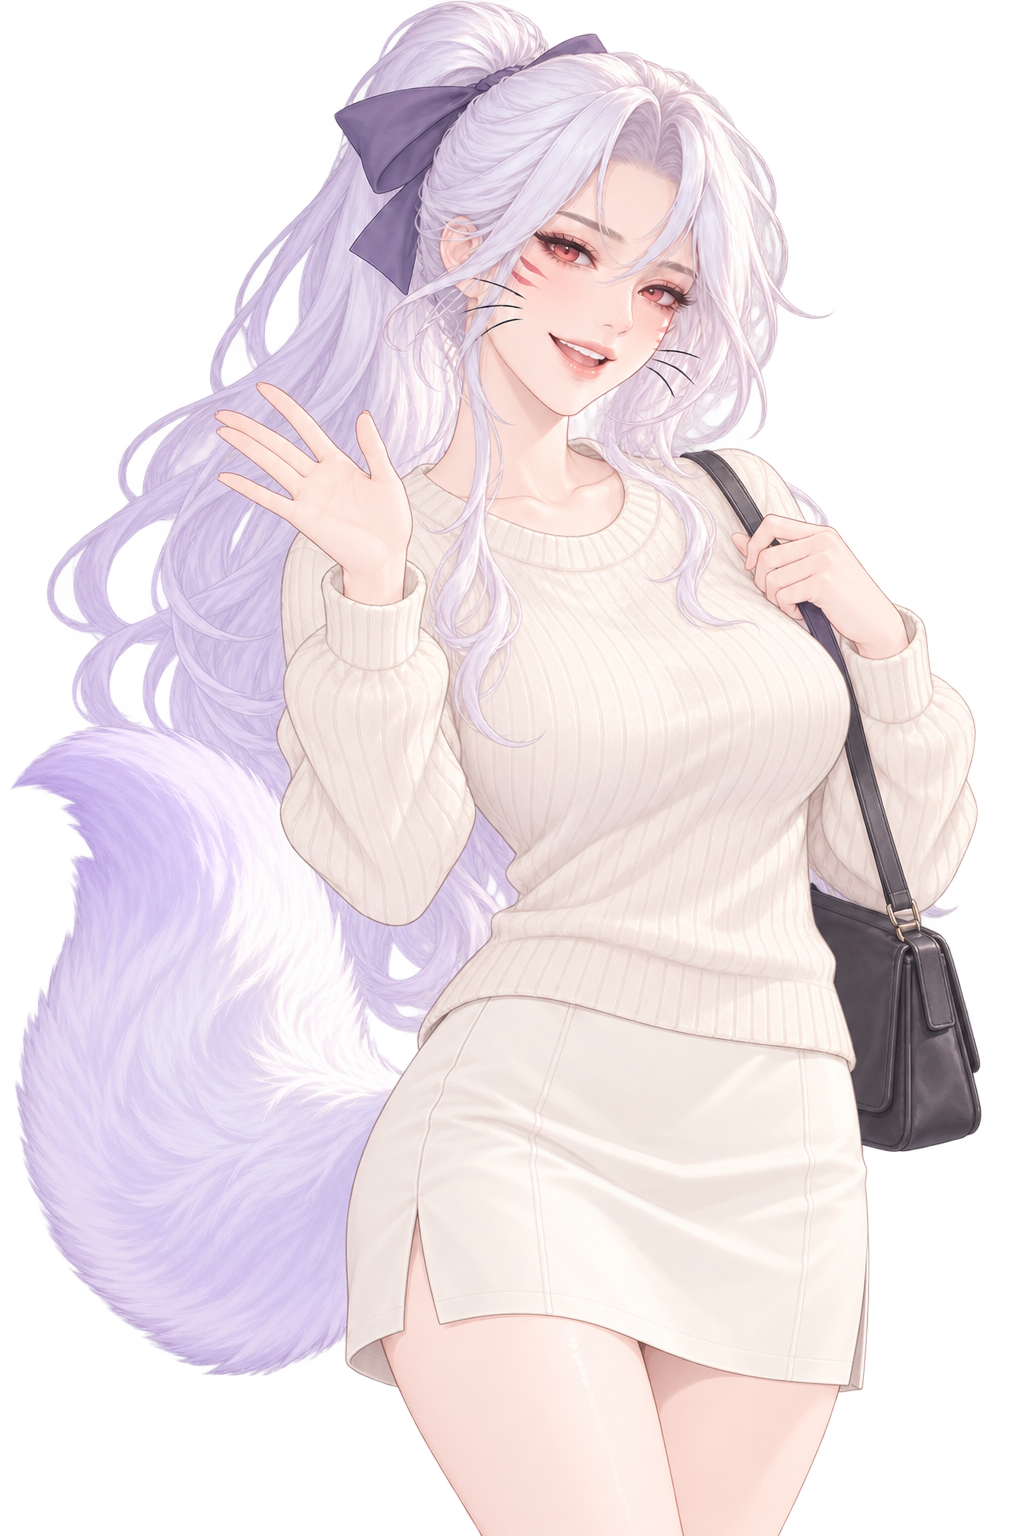
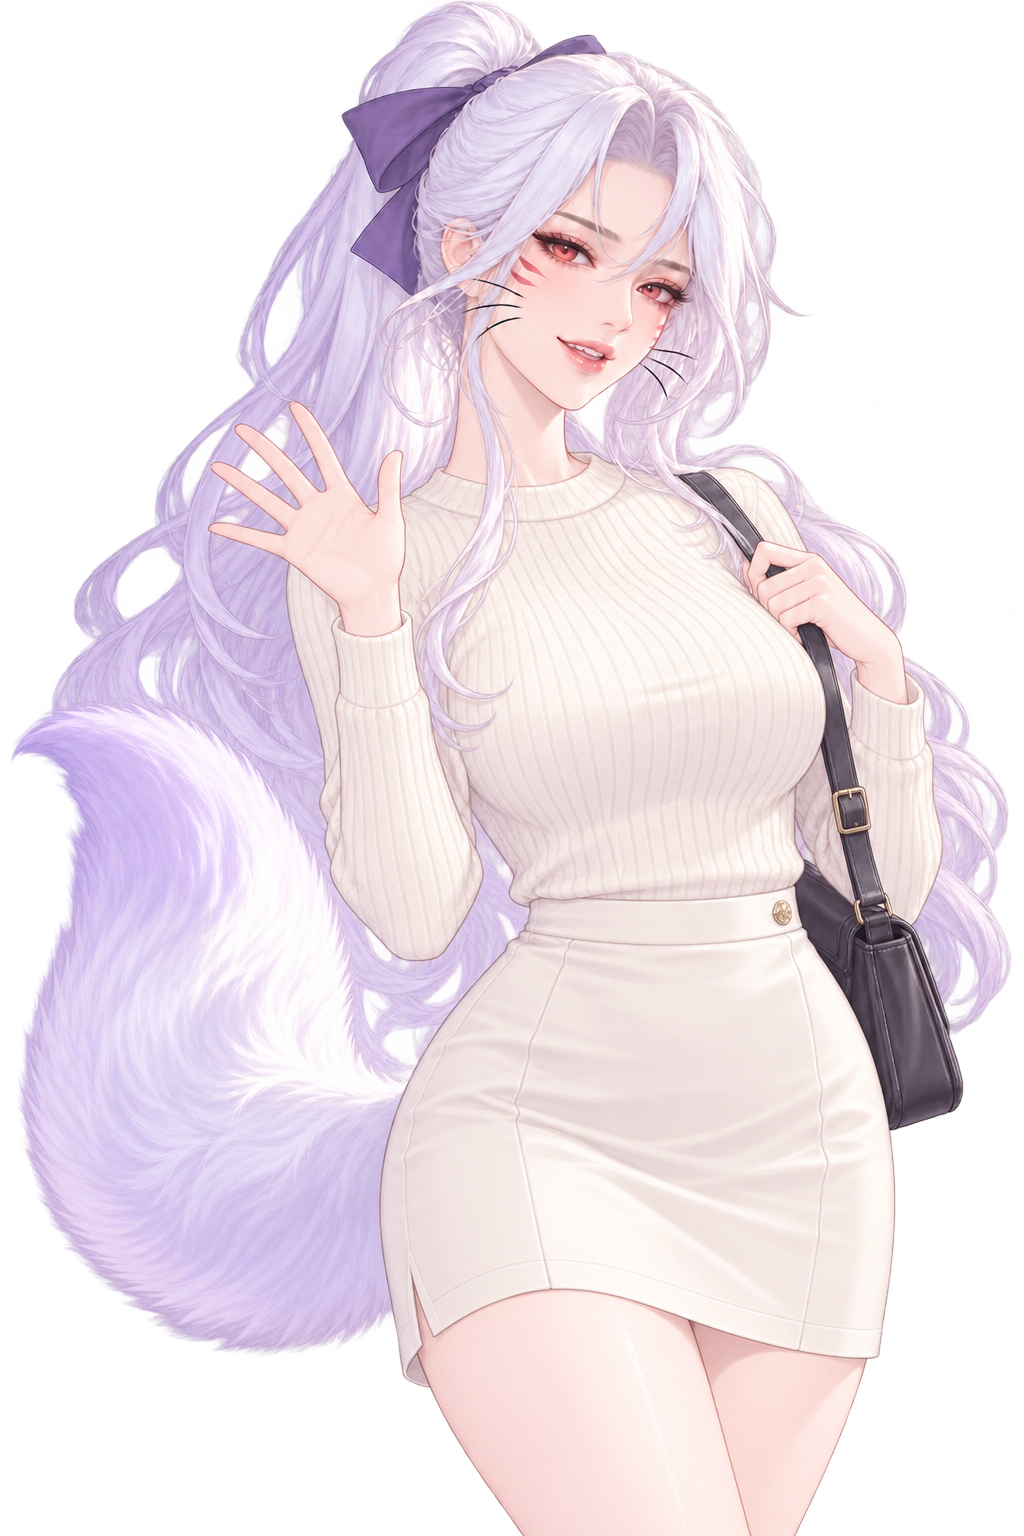
꾸민 니트 의상 여섯 장 슬림핏으로 교체

diff --git a/docs/illustration-replacement-prompts.md b/docs/illustration-replacement-prompts.md
@@ -136,16 +136,16 @@ CG는 공통 CG 블록과 파일별 장면 프롬프트를 이어 붙인다. 무
 
 공통 구도: 머리 위부터 무릎 바로 위까지 보이는 무릎 위 크롭.
 
-의상 블록: 허리까지 오는 크림색 골지 니트 스웨터, 몸에 맞는 슬림 핏으로 허리를 덮고 가슴골은 드러내지 않는다. 하이웨이스트 불투명 아이보리 스트레이트 스커트는 허벅지 중간보다 약간 위까지 오는 짧은 기장으로 하고, 허리와 엉덩이를 따라 깔끔하게 맞춘다. 과하게 짧거나 펑퍼짐하지 않게 한다. 작은 검정 숄더백을 들고 단정한 주말 데이트 분위기를 유지한다. 로고·문자는 넣지 않는다.
+의상 블록: 크림색 골지 니트 스웨터는 꾸민 외출복답게 어깨·가슴·허리선을 따라 몸매에 자연스럽게 밀착되는 슬림 핏으로 입힌다. 골지 결은 선명하게 보이되 천이 당기거나 비치지 않고, 허리와 가슴을 완전히 덮으며 노출은 없다. 하이웨이스트 불투명 아이보리 스커트도 허리와 엉덩이 라인을 따라 매끈하게 맞추고, 현재처럼 허벅지 중간보다 약간 위에 오는 기장을 유지한다. 헐렁하거나 부풀지 않게 하되 과하게 조이거나 짧게 만들지 않는다. 작은 검정 숄더백과 단정한 주말 데이트 분위기를 유지한다. 로고·문자는 넣지 않는다.
 
 | 파일 | 개별 표정·포즈 프롬프트 |
 |---|---|
-| [P13-1.png](../assets/standing/P13-1.png) | 조용한 기본 표정, 한 손으로 가방끈을 잡고 다른 손은 등 뒤에 둔다. |
+| [P13-1.png](../assets/standing/P13-1.png) | 차분한 미소로 정면을 바라보고 한 손으로 가방끈을 잡으며 다른 손은 자연스럽게 옆으로 내린다. |
 | [P13-2.png](../assets/standing/P13-2.png) | 환한 미소로 상대를 바라보며 한 손을 작게 흔들고 다른 손으로 가방끈을 잡는다. |
-| [P13-3.png](../assets/standing/P13-3.png) | 예상보다 빨리 상대를 만나 눈을 크게 뜨고 살짝 입을 열며 가방끈을 잡는다. |
-| [P13-4.png](../assets/standing/P13-4.png) | 옷차림을 의식해 얼굴을 붉히고 시선을 옆으로 피하며 가방끈을 잡는다. |
-| [P13-5.png](../assets/standing/P13-5.png) | 상대의 표정을 살피며 걱정스럽게 눈썹을 모으고 가방끈을 붙든다. |
-| [P13-6.png](../assets/standing/P13-6.png) | 부끄러움을 숨기려는 새침한 표정, 턱을 조금 들고 옆을 보며 가방끈을 잡는다. |
+| [P13-3.png](../assets/standing/P13-3.png) | 살짝 놀란 듯 눈을 크게 뜨고 입을 조금 벌린 채 한 손으로 가방끈을 잡고 다른 손은 옆으로 내린다. |
+| [P13-4.png](../assets/standing/P13-4.png) | 수줍게 시선을 아래쪽으로 피하며 한 손은 가방끈을 잡고 다른 손은 자연스럽게 옆으로 내린다. |
+| [P13-5.png](../assets/standing/P13-5.png) | 조심스러운 표정으로 시선을 살짝 내리고 한 손으로 가방끈을 잡으며 다른 손은 스커트 옆선 가까이에 둔다. |
+| [P13-6.png](../assets/standing/P13-6.png) | 차분하고 살짝 새침한 미소로 곁을 바라보며 한 손으로 가방끈을 잡고 다른 손은 옆으로 내린다. |
 
 ### CH16 자유 의상 C16 세트
 
